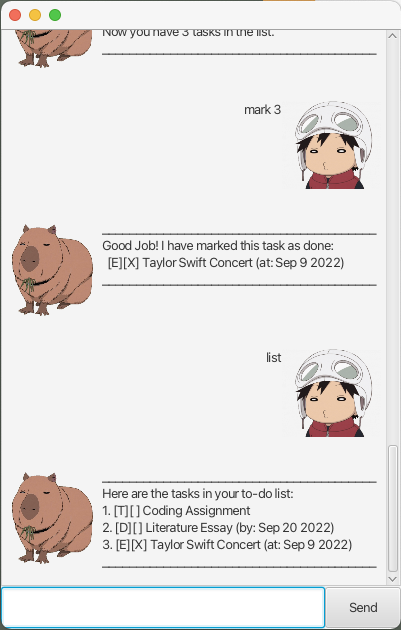
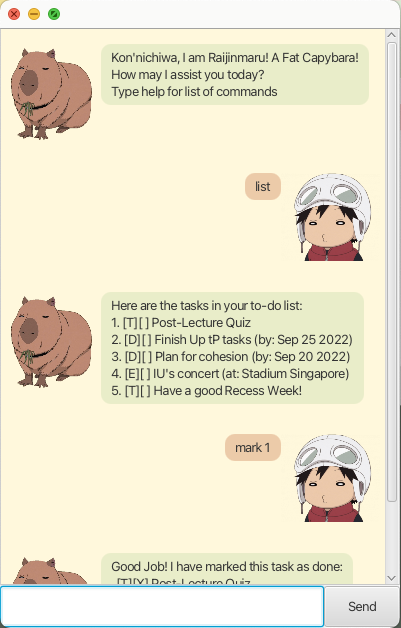
Improve GUI and fix minor bugs

diff --git a/src/main/java/duke/util/Parser.java b/src/main/java/duke/util/Parser.java
@@ -44,49 +44,27 @@ public class Parser {
     private static int taskNumber = -1;
 
     //List of customised error messages
-    private static String emptyInputError = "________________________________________\n"
-            + "Empty strings or blanks are invalid!\n"
-            + "________________________________________";
+    private static String emptyInputError = "Empty strings or blanks are invalid!";
 
-    private static String deleteNullError = "________________________________________\n"
-            + "OOPS!!! The task number for deleting must be specified!\n"
-            + "________________________________________";
+    private static String deleteNullError = "OOPS!!! The task number for deleting must be specified!";
 
-    private static String deleteInvalidError = "________________________________________\n"
-            + "OOPS!!! Please input a number after delete keyword!\n"
-            + "________________________________________";
+    private static String deleteInvalidError = "OOPS!!! Please input a number after delete keyword!";
 
-    private static String markNullError = "________________________________________\n"
-            + "OOPS!!! The task number for marking must be specified!\n"
-            + "________________________________________";
+    private static String markNullError = "OOPS!!! The task number for marking must be specified!";
 
-    private static String markInvalidError = "________________________________________\n"
-            + "OOPS!!! Please input a number after mark keyword!\n"
-            + "________________________________________";
+    private static String markInvalidError = "OOPS!!! Please input a number after mark keyword!";
 
-    private static String unmarkNullError = "________________________________________\n"
-            + "OOPS!!! The task number for unmarking must be specified!\n"
-            + "________________________________________";
+    private static String unmarkNullError = "OOPS!!! The task number for unmarking must be specified!";
 
-    private static String unmarkInvalidError = "________________________________________\n"
-            + "OOPS!!! Please input a number after unmark keyword!\n"
-            + "________________________________________";
+    private static String unmarkInvalidError = "OOPS!!! Please input a number after unmark keyword!";
 
-    private static String todoNullError = "________________________________________\n"
-            + "OOPS!!! The description of a todo cannot be empty.\n"
-            + "________________________________________";
+    private static String todoNullError = "OOPS!!! The description of a todo cannot be empty.";
 
-    private static String deadlineNullError = "________________________________________\n"
-            + "OOPS!!! The description of a deadline cannot be empty.\n"
-            + "________________________________________";
+    private static String deadlineNullError = "OOPS!!! The description of a deadline cannot be empty.";
 
-    private static String eventNullError = "________________________________________\n"
-            + "OOPS!!! The description of an event cannot be empty.\n"
-            + "________________________________________";
+    private static String eventNullError = "OOPS!!! The description of an event cannot be empty.";
 
-    private static String findNullError = "________________________________________\n"
-            + "OOPS!!! The keyword to search cannot be empty.\n"
-            + "________________________________________";
+    private static String findNullError = "OOPS!!! The keyword to search cannot be empty.";
 
     /**
      * Creates an instance of a Parser.

diff --git a/src/main/java/duke/command/UndoCommand.java b/src/main/java/duke/command/UndoCommand.java
@@ -21,27 +21,13 @@ public class UndoCommand extends Command {
     private int taskNumber;
 
     // Messages to return for the various Commands
-    private final String undoMarkMessage = "________________________________________\n"
-            + "Undo Complete! I unmarked the task\n"
-            + "________________________________________";;
-    private final String undoUnmarkMessage = "________________________________________\n"
-            + "Undo Complete! I marked the task\n"
-            + "________________________________________";;
-    private final String undoTodoMessage = "________________________________________\n"
-            + "Undo Complete! I deleted the todo task\n"
-            + "________________________________________";;
-    private final String undoDeadlineMessage = "________________________________________\n"
-            + "Undo Complete! I deleted the deadline task\n"
-            + "________________________________________";;
-    private final String undoEventMessage = "________________________________________\n"
-            + "Undo Complete! I deleted the event task\n"
-            + "________________________________________";
-    private final String undoDeleteMessage = "________________________________________\n"
-            + "Undo Complete! I added back the deleted task\n"
-            + "________________________________________";
-    private final String undoDefaultMessage = "________________________________________\n"
-            + "Error! Cannot undo the previous command >.<\n"
-            + "________________________________________";
+    private final String undoMarkMessage = "Undo Complete! I unmarked the task";
+    private final String undoUnmarkMessage = "Undo Complete! I marked the task";
+    private final String undoTodoMessage = "Undo Complete! I deleted the todo task";
+    private final String undoDeadlineMessage = "Undo Complete! I deleted the deadline task";
+    private final String undoEventMessage = "Undo Complete! I deleted the event task";
+    private final String undoDeleteMessage = "Undo Complete! I added back the deleted task";
+    private final String undoDefaultMessage = "Error! Cannot undo the previous command >.<";
 
     /**
      * Creates an instance of UndoCommand.

diff --git a/src/main/java/duke/command/DeleteCommand.java b/src/main/java/duke/command/DeleteCommand.java
@@ -41,17 +41,13 @@ public class DeleteCommand extends Command {
     public String execute(TaskList tasks, Ui ui, Storage storage) throws DukeException, IOException {
         //Exception: Throw an error when user tries to delete from an empty list
         if (tasks.isEmpty()) {
-            String errorMessage = "________________________________________\n"
-                    + "OOPS!!! There are no task left to be deleted!\n"
-                    + "________________________________________";
+            String errorMessage = "OOPS!!! There are no task left to be deleted!";
             throw new DukeException(errorMessage);
         }
 
         //Exception: Throw an error when the second half after "delete" keyword is greater than task_list
         if (taskNumber > tasks.size() || taskNumber < 1) {
-            String errorMessage = "________________________________________\n"
-                    + "OOPS!!! There is no such task number!\n"
-                    + "________________________________________";;
+            String errorMessage = "OOPS!!! There is no such task number!";
             throw new DukeException(errorMessage);
         }
         String taskDescription = tasks.getTask(taskNumber - 1).toString();
@@ -60,8 +56,7 @@ public class DeleteCommand extends Command {
                 + taskDescription
                 + "\n Now you have "
                 + (tasks.size() - 1)
-                + " tasks in the list."
-                + "\n________________________________________";
+                + " tasks in the list.";
         Parser.setTaskDescription(taskDescription);
         tasks.delete(this.taskNumber - 1);
         storage.writeToFile(tasks);
@@ -75,8 +70,7 @@ public class DeleteCommand extends Command {
      */
     @Override
     public String toString() {
-        return "________________________________________\n"
-                + "Noted. I have removed this task:\n";
+        return "Noted. I have removed this task:\n";
     }
 
     /**

diff --git a/src/main/java/duke/DialogBox.java b/src/main/java/duke/DialogBox.java
@@ -7,12 +7,17 @@ import javafx.collections.FXCollections;
 import javafx.collections.ObservableList;
 import javafx.fxml.FXML;
 import javafx.fxml.FXMLLoader;
+import javafx.geometry.Insets;
 import javafx.geometry.Pos;
 import javafx.scene.Node;
 import javafx.scene.control.Label;
 import javafx.scene.image.Image;
 import javafx.scene.image.ImageView;
+import javafx.scene.layout.Background;
+import javafx.scene.layout.BackgroundFill;
+import javafx.scene.layout.CornerRadii;
 import javafx.scene.layout.HBox;
+import javafx.scene.paint.Color;
 
 /**
  * An example of a custom control using FXML.
@@ -28,12 +33,18 @@ public class DialogBox extends HBox {
     @FXML
     private ImageView displayPicture;
 
+    private Color labelColor;
+    private CornerRadii labelCornerRadii = new CornerRadii(10);
+
     private DialogBox(String text, Image img) {
         try {
             FXMLLoader fxmlLoader = new FXMLLoader(MainWindow.class.getResource("/view/DialogBox.fxml"));
             fxmlLoader.setController(this);
             fxmlLoader.setRoot(this);
             fxmlLoader.load();
+            this.labelColor = Color.web("#ECCBA9"); // Color for users
+            BackgroundFill userBackground = new BackgroundFill(this.labelColor, labelCornerRadii, Insets.EMPTY);
+            dialog.setBackground(new Background(userBackground));
         } catch (IOException e) {
             e.printStackTrace();
         }
@@ -50,6 +61,9 @@ public class DialogBox extends HBox {
         Collections.reverse(tmp);
         getChildren().setAll(tmp);
         setAlignment(Pos.TOP_LEFT);
+        this.labelColor = Color.web("#E9EDC9"); // Color for duke
+        BackgroundFill dukeBackground = new BackgroundFill(this.labelColor, labelCornerRadii, Insets.EMPTY);
+        dialog.setBackground(new Background(dukeBackground));
     }
 
     /**

diff --git a/src/main/java/duke/command/HelpCommand.java b/src/main/java/duke/command/HelpCommand.java
@@ -18,17 +18,15 @@ public class HelpCommand extends Command {
      * @return String that represents the response from ChatBot after executing the command
      */
     public String execute(TaskList tasks, Ui ui, Storage storage) {
-        return "________________________________________\n"
-                + "list -> list out all the tasks\n"
-                + "todo -> creates a todo task\n"
-                + "deadline -> creates a deadline task, add /by to specify deadline\n"
-                + "event -> creates an event task, add /at to specify location/date\n"
-                + "mark -> marks a task as done in the task list\n"
-                + "unmark -> marks a task as not done in the task list\n"
-                + "delete -> removes the task from the task list\n"
-                + "find -> searches for task with the same keyword\n"
-                + "undo -> returns to the state before execution of the previous command\n"
-                + "bye -> end and close the ChatBot\n"
-                + "________________________________________\n";
+        return "list - shows all the tasks\n"
+                + "todo - creates a todo task\n"
+                + "deadline - creates a deadline task, add /by to specify deadline\n"
+                + "event - creates an event task, add /at to specify location/date\n"
+                + "mark - marks a task as done in the task list\n"
+                + "unmark - marks a task as not done in the task list\n"
+                + "delete - removes the task from the task list\n"
+                + "find - searches for task with the same keyword\n"
+                + "undo - returns to the state before execution of the previous command\n"
+                + "bye - ends and closes the ChatBot\n";
     };
 }

diff --git a/src/main/java/duke/command/UnmarkCommand.java b/src/main/java/duke/command/UnmarkCommand.java
@@ -40,9 +40,7 @@ public class UnmarkCommand extends Command {
     @Override
     public String execute(TaskList tasks, Ui ui, Storage storage) throws DukeException, IOException {
         if (this.taskNumber > tasks.size() || this.taskNumber < 1) {
-            String errorMessage = "________________________________________\n"
-                    + "OOPS!!! There is no such task number!\n"
-                    + "________________________________________";
+            String errorMessage = "OOPS!!! There is no such task number!";
             throw new DukeException(errorMessage);
         }
 
@@ -50,8 +48,7 @@ public class UnmarkCommand extends Command {
         storage.writeToFile(tasks);
         return this
                 + "  "
-                + tasks.getTask(this.taskNumber - 1).toString()
-                + "\n________________________________________";
+                + tasks.getTask(this.taskNumber - 1).toString();
     }
 
     /**
@@ -61,8 +58,7 @@ public class UnmarkCommand extends Command {
      */
     @Override
     public String toString() {
-        return "________________________________________\n"
-                + "Alright! I have marked this task as not done yet:\n";
+        return "Alright! I have marked this task as not done yet:\n";
     }
 
     /**

diff --git a/src/main/java/duke/command/MarkCommand.java b/src/main/java/duke/command/MarkCommand.java
@@ -40,9 +40,7 @@ public class MarkCommand extends Command {
     @Override
     public String execute(TaskList tasks, Ui ui, Storage storage) throws DukeException, IOException {
         if (this.taskNumber > tasks.size() || this.taskNumber < 1) {
-            String errorMessage = "________________________________________\n"
-                    + "OOPS!!! There is no such task number!\n"
-                    + "________________________________________";
+            String errorMessage = "OOPS!!! There is no such task number!";
             throw new DukeException(errorMessage);
         }
 
@@ -50,8 +48,7 @@ public class MarkCommand extends Command {
         storage.writeToFile(tasks);
         return this
                 + "  "
-                + tasks.getTask(this.taskNumber - 1).toString()
-                + "\n________________________________________";
+                + tasks.getTask(this.taskNumber - 1).toString();
     }
 
     /**
@@ -61,8 +58,7 @@ public class MarkCommand extends Command {
      */
     @Override
     public String toString() {
-        return "________________________________________\n"
-                + "Good Job! I have marked this task as done:\n";
+        return "Good Job! I have marked this task as done:\n";
     }
 
     /**

diff --git a/src/main/java/duke/util/Ui.java b/src/main/java/duke/util/Ui.java
@@ -30,11 +30,9 @@ public class Ui {
      * @return String representation of a Welcome Message
      */
     public static String welcomeMessage() {
-        return "________________________________________\n"
-                + "Kon'nichiwa, I am Raijinmaru! A Fat Capybara!\n"
+        return "Kon'nichiwa, I am Raijinmaru! A Fat Capybara!\n"
                 + "How may I assist you today?\n"
-                + "Type help for list of commands\n"
-                + "________________________________________";
+                + "Type help for list of commands";
     }
 
     /**
@@ -47,10 +45,10 @@ public class Ui {
     }
 
     /**
-     * Stops the ChatBot and closes the window after 5 seconds.
+     * Stops the ChatBot and closes the window after 2 seconds.
      */
     public void stopDuke() {
-        PauseTransition closeWindow = new PauseTransition(Duration.seconds(5));
+        PauseTransition closeWindow = new PauseTransition(Duration.seconds(2));
         closeWindow.setOnFinished(e -> this.stage.close());
         closeWindow.play();
     }

diff --git a/src/main/java/duke/command/AddCommand.java b/src/main/java/duke/command/AddCommand.java
@@ -62,14 +62,12 @@ public class AddCommand extends Command {
         storage.writeToFile(tasks);
         if (tasks.size() == 1) {
             return this + taskDescription
-                    + "\nNow you have 1 task in the list."
-                    + "\n________________________________________";
+                    + "\nNow you have 1 task in the list.";
         } else {
             return this + taskDescription
                     + "\nNow you have "
                     + tasks.size()
-                    + " tasks in the list."
-                    + "\n________________________________________";
+                    + " tasks in the list.";
         }
 
     }
@@ -97,8 +95,7 @@ public class AddCommand extends Command {
      */
     @Override
     public String toString() {
-        return "________________________________________\n"
-                + "Got it. I have added this task:\n";
+        return "Got it. I have added this task:\n";
     }
 
     /**

diff --git a/src/main/java/duke/command/FindCommand.java b/src/main/java/duke/command/FindCommand.java
@@ -37,7 +37,7 @@ public class FindCommand extends Command {
         for (int i = 0; i < this.keyWord.length; i++) {
             respondMessage.append(tasks.findTasks(this.keyWord[i]));
         }
-        return respondMessage.append("\n________________________________________").toString();
+        return respondMessage.toString();
     }
 
     /**
@@ -47,7 +47,6 @@ public class FindCommand extends Command {
      */
     @Override
     public String toString() {
-        return "________________________________________\n"
-                + "Here are the matching tasks in your to-do list:";
+        return "Here are the matching tasks in your to-do list:";
     }
 }

diff --git a/src/test/java/duke/util/UiTest.java b/src/test/java/duke/util/UiTest.java
@@ -7,11 +7,9 @@ import org.junit.jupiter.api.Test;
 public class UiTest {
     @Test
     public void welcomeMessageTest() {
-        String expectedOutput = "________________________________________\n"
-                + "Kon'nichiwa, I am Raijinmaru! A Fat Capybara!\n"
+        String expectedOutput = "Kon'nichiwa, I am Raijinmaru! A Fat Capybara!\n"
                 + "How may I assist you today?\n"
-                + "Type help for list of commands\n"
-                + "________________________________________";
+                + "Type help for list of commands";
         assertEquals(expectedOutput, Ui.welcomeMessage());
     }
 }

diff --git a/src/main/java/duke/command/ListCommand.java b/src/main/java/duke/command/ListCommand.java
@@ -23,8 +23,7 @@ public class ListCommand extends Command {
      */
     @Override
     public String execute(TaskList tasks, Ui ui, Storage storage) {
-        return this + tasks.compileAllTasks()
-                + "\n________________________________________";
+        return this + tasks.compileAllTasks();
     }
 
     /**
@@ -34,7 +33,6 @@ public class ListCommand extends Command {
      */
     @Override
     public String toString() {
-        return "________________________________________\n"
-                + "Here are the tasks in your to-do list:";
+        return "Here are the tasks in your to-do list:";
     }
 }
